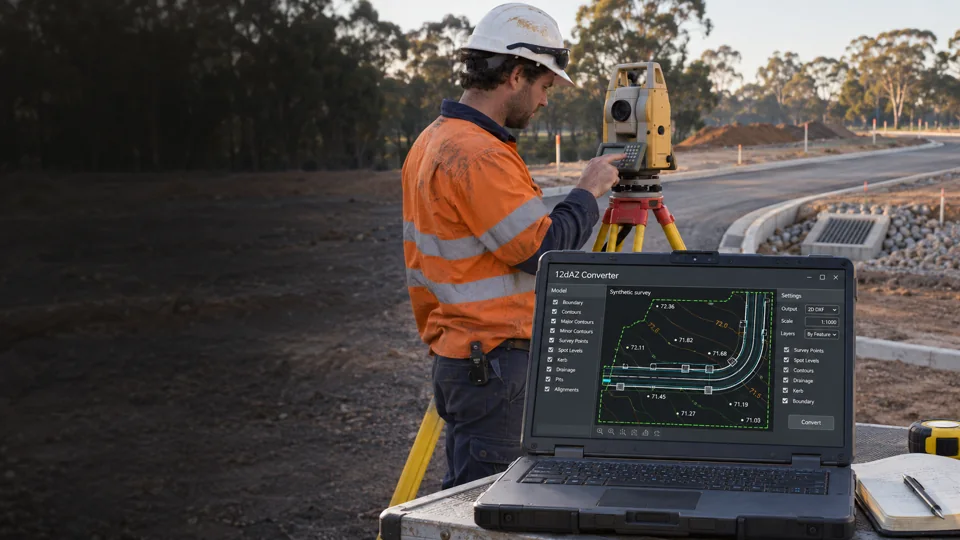
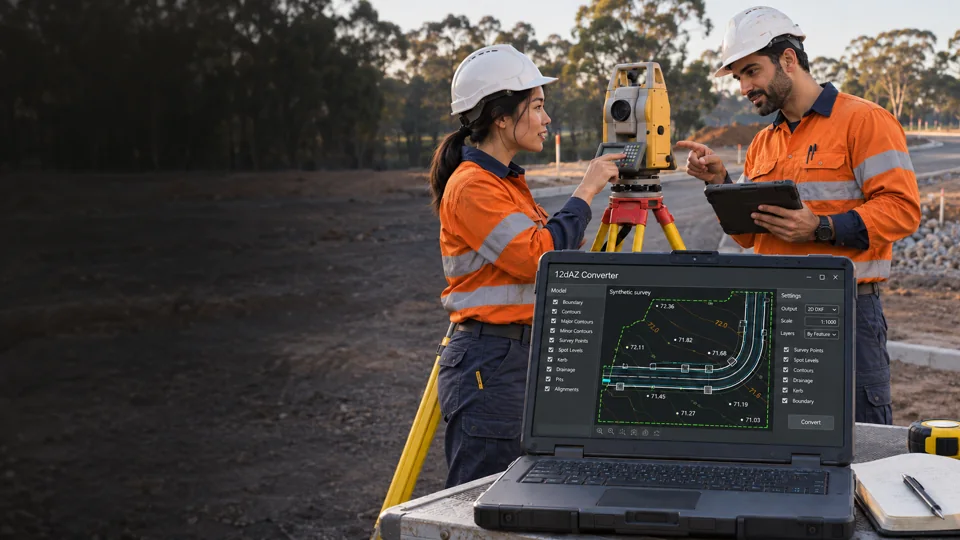
Update hero image with two collaborating surveyors

diff --git a/website/index.html b/website/index.html
@@ -85,7 +85,7 @@
               sizes="(max-width: 1000px) calc(100vw - 48px), 1160px"
               width="1672"
               height="941"
-              alt="Illustrative surveyor operating a total station beside a laptop displaying a synthetic road survey plan"
+              alt="Illustrative scene of two surveyors, an Asian woman and a Middle Eastern man, working with a total station beside a laptop displaying a synthetic road survey plan"
               fetchpriority="high"
             />
             <figcaption>AI-generated scene · synthetic survey · illustrative interface</figcaption>

diff --git a/website/styles.css b/website/styles.css
@@ -964,7 +964,7 @@ details a {
   width: 100%;
   height: 100%;
   object-fit: cover;
-  object-position: 62% center;
+  object-position: 62% top;
 }
 .hero-photo figcaption {
   position: absolute;
